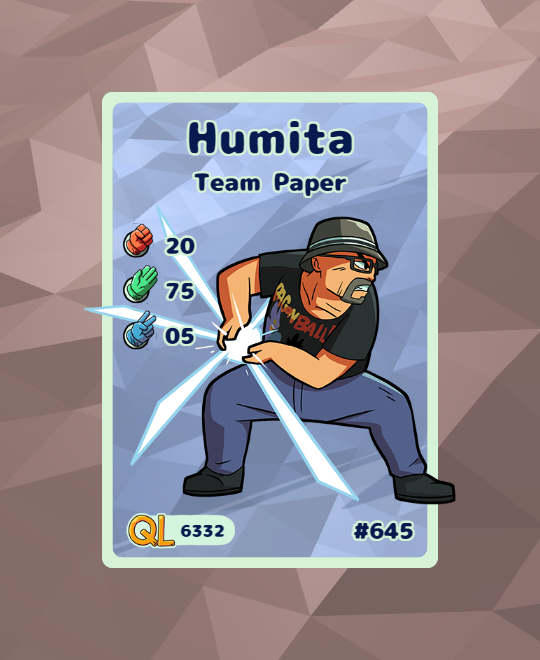
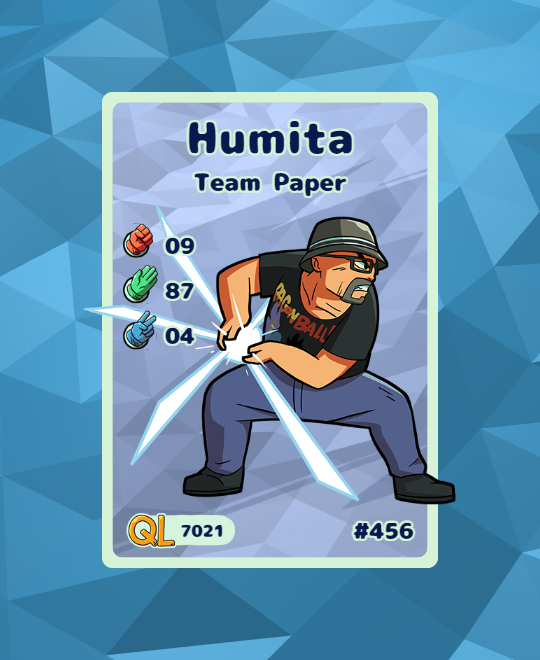
Cambio de color canvas

diff --git a/assets/js/main.js b/assets/js/main.js
@@ -48,7 +48,7 @@
         minWidth: 540,
         scale: 1.00,
         scaleMobile: 1.00,
-        color: 0x6c5855
+        color: 0x255e7d
     });
 
     const wavesBackground = VANTA.WAVES({
